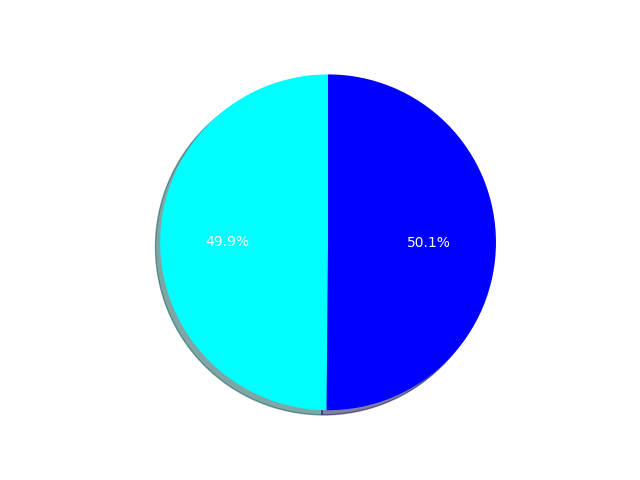
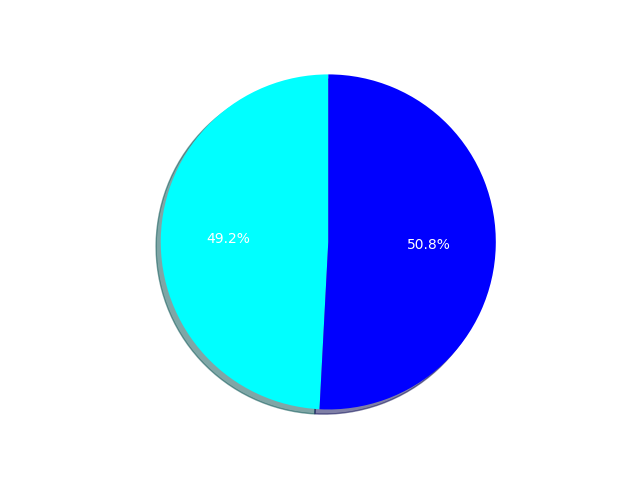
build visual maker into app.py

diff --git a/templates/home.html b/templates/home.html
@@ -20,11 +20,18 @@
 <body>
     <nav>
         <a href="#">Top</a>
-        <a href="#">About</a>
+        <a href="#about">About</a>
+        <a id="new-sec" href="#list-of-winners">Winners:</a>
         <a href="#list-of-winners">List of Winners</a>
-        <a href="#">Winners by Gender</a>
-        <a href="#">Oldest Winners</a>
-        <a href="#">Youngest Winners</a>
+        <a href="#winners-by-gender">Winners by Gender</a>
+        <a href="#">Winners by Age</a>
+        <a href="#">Winners by Region</a>
+        <a id="new-sec" href="#unanimous-winners">Jury:</a>
+        <a href="#">Unanimous Winners</a>
+        <a href="#">Close Votes</a>
+        <a href="#">Votes by Gender</a>
+        <a id="new-sec" href="#list-of-winners">Players:</a>
+        <a href="#">Unanimous Winners</a>
     </nav>
     <section id="about">
         <h2>About</h2>
@@ -39,7 +46,7 @@
     <section id="list-of-winners">
     <h2>List of Survivor Winners</h2>
     <hr>
-    <p>A table of survivor winners in order of season.</p>
+    <p>A table of Survivor winners in order of season.</p>
     <table>
         <thead>
             <tr>
@@ -56,23 +63,20 @@
         <tbody>
             {% for i in range(num_seasons) %}
             <tr>
-                <td>{{ winclass.list_winners(i) }}</td>
-                <td>{{ winclass.winner_age(i) }} </td>
-                <td>{{ winclass.winner_towns(i) }}</td>
+                <td>{{ winclass.ask_winners('Stats', 'name', i) }}</td>
+                <td>{{ winclass.ask_winners('Stats', 'age_time_of_filming', i) }} </td>
+                <td>{{ winclass.ask_winners('Stats', 'hometown', i) }}</td>
                 <td>{{ (i + 1) }}</td>
-                <td>{{ winclass.season_list(i) }}</td>
-                <!-- <td>{{ winclass.tribal_wins(i) }}</td>
-                <td>{{ winclass.in_wins(i) }}</td>
-                <td>{{ winclass.total_wins(i) }}</td> -->
+                <td>{{ winclass.ask_winners('Seasons', 'season', i) }}</td>
             </tr>
             {% endfor %}
         </tbody>
     </table>
 </section>
-<section id="list-of-winners">
+<section id="winners-by-gender">
 <h2>Women Winners</h2>
 <hr>
-<p>A table of all the women survivor winners in order of season.</p>
+<p>A table of all the women Survivor winners in order of season, with basic challenge data.</p>
 <table>
     <thead>
         <tr>
@@ -103,7 +107,7 @@
 </table>
 <h2>Men Winners</h2>
 <hr>
-<p>A table of all the women survivor winners in order of season.</p>
+<p>A table of all the men Survivor winners in order of season, with basic challenge data.</p>
 <table>
     <thead>
         <tr>
@@ -139,7 +143,7 @@
 <p>Non-Binary Players: {{ playerclass.num_nb_players() }}</p>
 </div>
 <div class="pie">
-<img id="play-by-gen-pie" src="{{ url_for('static', filename='gender_pie_players_cropped.png') }}">
+<img src="{{ url_for('static', filename='gender_pie_players_cropped.png') }}">
 </div>
 </article>
 <article>
@@ -149,14 +153,86 @@
 <p>Non-Binary Winners: {{ winclass.num_nb_winners() }}</p>
 </div>
 <div class="pie">
-<img id="win-by-gen-pie" src="{{ url_for('static', filename='gender_pie_winners_cropped.png') }}">
+<img src="{{ url_for('static', filename='gender_pie_winners_cropped.png') }}">
+</div>
+</article>
+</section>
+<section id="winners-by-age">
+<h2>Oldest Winners</h2>
+<hr>
+<p>A table of the oldest the Survivor winners starting from oldest.</p>
+<p>If multiple people were the same age in years, then those tied will then be listed by season.</p>
+<table>
+    <thead>
+        <tr>
+            <th>Name</th>
+            <th>Age (at time of filming)</th>
+            <th>Season #</th>
+            <th>Season Name</th>
+        </tr>
+    </thead>
+    <tbody>
+        {% for i in range(5) %}
+        <tr>
+            <td>{{ winclass.oldest_winners('Stats', 'name', 5, i) }}</td>
+            <td>{{ winclass.oldest_winners('Stats', 'age_time_of_filming', 5, i) }}</td>
+            <td>{{ winclass.oldest_winners('Seasons', 'id', 5, i) }}</td>
+            <td>{{ winclass.oldest_winners('Seasons', 'season', 5, i) }}</td>
+        </tr>
+        {% endfor %}
+    </tbody>
+</table>
+<h2>Youngest Winners</h2>
+<hr>
+<p>A table of the youngest the Survivor winners starting from youngest.</p>
+<p>If multiple people were the same age in years, then those tied will then be listed by season.</p>
+<table>
+    <thead>
+        <tr>
+            <th>Name</th>
+            <th>Age (at time of filming)</th>
+            <th>Season #</th>
+            <th>Season Name</th>
+        </tr>
+    </thead>
+    <tbody>
+        {% for i in range(5) %}
+        <tr>
+            <td>{{ winclass.youngest_winners('Stats', 'name', 5, i) }}</td>
+            <td>{{ winclass.youngest_winners('Stats', 'age_time_of_filming', 5, i) }}</td>
+            <td>{{ winclass.youngest_winners('Seasons', 'id', 5, i) }}</td>
+            <td>{{ winclass.youngest_winners('Seasons', 'season', 5, i) }}</td>
+        </tr>
+        {% endfor %}
+    </tbody>
+</table>
+<article>
+<div class="info" id="play-by-age">
+<p>20-29 Players: {{ playerclass.age_group_players(20, 29) }}</p>
+<p>30-39 Players: {{ playerclass.age_group_players(30, 39) }}</p>
+<p>40-49 Players: {{ playerclass.age_group_players(40, 49) }}</p>
+<p>50+ Players: {{ playerclass.age_group_players(50, 100) }}</p>
+</div>
+<div class="pie">
+<img src="{{ url_for('static', filename='age_pie_players_cropped.png') }}">
+</div>
+</article>
+<article>
+<div class="info" id="win-by-age">
+<p>20-29 Winners: {{ winclass.age_group_winners(20, 29) }}</p>
+<p>30-39 Winners: {{ winclass.age_group_winners(30, 39) }}</p>
+<p>40-49 Winners: {{ winclass.age_group_winners(40, 49) }}</p>
+<p>50+ Winners: {{ winclass.age_group_winners(50, 100) }}</p>
+</div>
+<div class="pie">
+<img src="{{ url_for('static', filename='age_pie_winners_cropped.png') }}">
 </div>
 </article>
 </section>
 <script>
     var $navbar = $('nav');
 $(document).scroll(function() {
-    $navbar.css({display: $(this).scrollTop() > 320? "block":"none"});
+    $navbar.css({display: $(this).scrollTop() > 300? "block":"none"});
 });
 </script>
 </body>

diff --git a/static/style.css b/static/style.css
@@ -14,21 +14,14 @@ html {
 nav {
     display: none;
     position: fixed;
-    height: 100%;
-    /* Full-height: remove this if you want "auto" height */
+    height: 100%; /* Full-height: remove this if you want "auto" height */
     width: 160px;
     z-index: 1;
-    /* Stay on top */
     top: 0;
-    /* Stay at the top */
     left: 0;
-    /* Black */
-    overflow-x: hidden;
-    /* Disable horizontal scroll */
+    overflow-x: hidden; /* Disable horizontal scroll */
     padding-top: 20px;
 }
-
-/* The navigation menu links */
 
 nav a {
     padding: 6px 8px 6px 16px;
@@ -38,10 +31,13 @@ nav a {
     display: block;
 }
 
-/* When you mouse over the navigation links, change their color */
-
 nav a:hover {
     color: #fff;
+}
+
+nav #new-sec{
+  text-decoration: underline;
+  /* font-weight: bold; */
 }
 
 /* On smaller screens, where height is less than 450px, change the style of the sidebar (less padding and a smaller font size) */
@@ -81,6 +77,7 @@ table {
     border-collapse: collapse;
     overflow: hidden;
     box-shadow: 0 0 20px rgba(0, 0, 0, 0.1);
+    margin-bottom: 100px;
 }
 
 th, td {

diff --git a/winners.py b/winners.py
@@ -1,55 +1,6 @@
 from queries import query_db, get_db, DATABASE, num_seasons
 
 class winclass:
-    def list_winners(it):
-        name = query_db('SELECT name FROM Stats WHERE sole_survivor = 1 AND season_id = ?', [(it + 1)], one=True)
-        if name is None:
-            return 'No such user'
-        else:
-            return (name[0])
-
-    def winner_age(it):
-        age = query_db('SELECT age_time_of_filming FROM Stats WHERE sole_survivor = 1 AND season_id = ?', [(it + 1)], one=True)
-        if age is None:
-            return 'No such user'
-        else:
-            return (age[0])
-
-    def winner_towns(it):
-        town = query_db('SELECT hometown FROM Stats WHERE sole_survivor = 1 AND season_id = ?', [(it + 1)], one=True)
-        if town is None:
-            return 'No such user'
-        else:
-            return (town[0])
-
-    def season_list(it):
-        season = query_db('SELECT season FROM Seasons WHERE id = ?', [(it + 1)], one=True)
-        if season is None:
-            return 'No such user'
-        else:
-            return (season[0])
-
-    def tribal_wins(it):
-        t_wins = query_db('SELECT tribal_wins FROM Stats WHERE sole_survivor = 1 AND season_id = ?', [(it + 1)], one=True)
-        if t_wins is None:
-            return 'No such user'
-        else:
-            return (t_wins[0])
-
-    def in_wins(it):
-        i_wins = query_db('SELECT individual_wins FROM Stats WHERE sole_survivor = 1 AND season_id = ?', [(it + 1)], one=True)
-        if i_wins is None:
-            return 'No such user'
-        else:
-            return (i_wins[0])
-
-    def total_wins(it):
-        tot_wins = query_db('SELECT total_wins FROM Stats WHERE sole_survivor = 1 AND season_id = ?', [(it + 1)], one=True)
-        if tot_wins is None:
-            return 'No such user'
-        else:
-            return (tot_wins[0])
-
     def women_seasons():
         women_seasons = query_db("SELECT Stats.season_id FROM Stats JOIN Players JOIN Seasons ON Players.id = Stats.player_id AND Stats.season_id = Seasons.id WHERE Players.gender = 'F' AND Stats.sole_survivor = 1;")
         women_seasons_cleaned = []
@@ -73,6 +24,10 @@ class winclass:
             men_seasons_cleaned.append(nb_seasons[x][0])
         nb_seasons_cleaned.sort()
         return nb_seasons_cleaned
+
+    def ask_winners(table, column, it):
+        winner = query_db(f"SELECT {table}.{column} FROM Stats JOIN Players JOIN Seasons ON Players.id = Stats.player_id AND Stats.season_id = Seasons.id WHERE Stats.sole_survivor = 1 AND season_id = ?;", [it + 1], one=True)
+        return winner[0]
 
     def women_winners(table, column, it):
         woman = query_db(f"SELECT {table}.{column} FROM Stats JOIN Players JOIN Seasons ON Players.id = Stats.player_id AND Stats.season_id = Seasons.id WHERE Players.gender = 'F' AND Stats.sole_survivor = 1 AND season_id = ?;", [it], one=True)
@@ -109,3 +64,15 @@ class winclass:
             men_seasons_cleaned.append(nb_seasons[x][0])
         nb_seasons_cleaned.sort()
         return len(nb_seasons_cleaned)
+
+    def oldest_winners(table, column, num, it):
+        winner = query_db(f"SELECT {table}.{column} FROM Stats JOIN Players JOIN Seasons ON Players.id = Stats.player_id AND Stats.season_id = Seasons.id WHERE Stats.sole_survivor = 1 ORDER BY Stats.age_time_of_filming DESC LIMIT ?;", [num])
+        return winner[it][0]
+
+    def youngest_winners(table, column, num, it):
+        winner = query_db(f"SELECT {table}.{column} FROM Stats JOIN Players JOIN Seasons ON Players.id = Stats.player_id AND Stats.season_id = Seasons.id WHERE Stats.sole_survivor = 1 ORDER BY Stats.age_time_of_filming LIMIT ?;", [num])
+        return winner[it][0]
+
+    def age_group_winners(low, high):
+        age_group = query_db("SELECT Stats.name FROM Stats JOIN Players JOIN Seasons ON Players.id = Stats.player_id AND Stats.season_id = Seasons.id WHERE Stats.sole_survivor = 1 AND Stats.age_time_of_filming >= ? AND Stats.age_time_of_filming <= ? ORDER BY Stats.age_time_of_filming;", [low, high])
+        return len(age_group)

diff --git a/visuals.py b/visuals.py
@@ -2,24 +2,41 @@ import matplotlib.pyplot as plt
 from queries import query_db, get_db, DATABASE, num_seasons
 from PIL import Image
 
-def makecroppedpie2(file_name, label1='label1', label2='label2', value1=0, value2=0, color1='cyan', color2='blue'):
-    plt.rcParams['font.family'] = 'sans-serif'
-    plt.rcParams['text.color'] = 'white'
-    labels = label1, label2
-    sizes = [value1, value2]
-    explode = (0, 0)  # tells which slice to "explode
-    colors_list = [color1, color2]
-    fig1, ax1 = plt.subplots()
-    ax1.pie(sizes, explode=explode, labels=labels, autopct='%1.1f%%',
-            shadow=True, startangle=90, colors = colors_list)
-    ax1.axis('equal')  # Equal aspect ratio ensures that pie is drawn as a circle.
-    # plt.title(title, color = 'white', fontweight = 'bold', fontsize = '20')
-    plt.savefig('static/' + file_name + '.png', transparent=True)
-    imgPath = 'static/' + file_name + '.png'
-    img = Image.open(imgPath)
-    box = (70, 60, 570, 420)
-    croppedImage = img.crop(box)
-    croppedImage.save('static/' + file_name + '_cropped.png')
+class visualmaker:
+    def makecroppedpie2(file_name, label1='Women', label2='Men', value1=0, value2=0, color1='cyan', color2='blue'):
+        plt.rcParams['font.family'] = 'sans-serif'
+        plt.rcParams['text.color'] = 'white'
+        labels = label1, label2
+        sizes = [value1, value2]
+        explode = (0, 0)  # tells which slice to "explode
+        colors_list = [color1, color2]
+        fig1, ax1 = plt.subplots()
+        ax1.pie(sizes, explode=explode, labels=labels, autopct='%1.1f%%',
+                shadow=True, startangle=90, colors = colors_list)
+        ax1.axis('equal')  # Equal aspect ratio ensures that pie is drawn as a circle.
+        # plt.title(title, color = 'white', fontweight = 'bold', fontsize = '20')
+        plt.savefig('static/' + file_name + '.png', transparent=True)
+        imgPath = 'static/' + file_name + '.png'
+        img = Image.open(imgPath)
+        box = (70, 60, 570, 420)
+        croppedImage = img.crop(box)
+        croppedImage.save('static/' + file_name + '_cropped.png')
 
-makecroppedpie2('gender_pie_players', 'Women', 'Men', 354, 356)
-makecroppedpie2('gender_pie_winners', 'Women', 'Men', 15, 25)
+    def makeagepie(file_name, label1='20-29', label2='30-39', label3='40-49', label4='50+', value1=0, value2=0, value3=0, value4=0, color1='cyan', color2='blue', color3='red', color4='orange'):
+        plt.rcParams['font.family'] = 'sans-serif'
+        plt.rcParams['text.color'] = 'white'
+        labels = label1, label2, label3, label4
+        sizes = [value1, value2, value3, value4]
+        explode = (0, 0, 0, 0)  # tells which slice to "explode
+        colors_list = [color1, color2, color3, color4]
+        fig1, ax1 = plt.subplots()
+        ax1.pie(sizes, explode=explode, labels=labels, autopct='%1.1f%%',
+                shadow=True, startangle=90, colors = colors_list)
+        ax1.axis('equal')  # Equal aspect ratio ensures that pie is drawn as a circle.
+        # plt.title(title, color = 'white', fontweight = 'bold', fontsize = '20')
+        plt.savefig('static/' + file_name + '.png', transparent=True)
+        imgPath = 'static/' + file_name + '.png'
+        img = Image.open(imgPath)
+        box = (70, 40, 570, 420)
+        croppedImage = img.crop(box)
+        croppedImage.save('static/' + file_name + '_cropped.png')

diff --git a/app.py b/app.py
@@ -1,6 +1,7 @@
 import sqlite3
 from flask import Flask, render_template, g
 from queries import query_db, get_db, DATABASE, num_seasons
+import visuals
 import winners
 import players
 
@@ -8,6 +9,16 @@ app = Flask(__name__)
 
 if __name__ == '__main__':
     app.run(debug=True)
+
+def makevisuals():
+    with app.app_context():
+        visuals.visualmaker.makecroppedpie2('gender_pie_winners', value1=winners.winclass.num_women_winners(), value2=winners.winclass.num_men_winners())
+        visuals.visualmaker.makecroppedpie2('gender_pie_players', value1=players.playerclass.num_women_players(), value2=players.playerclass.num_men_players())
+        visuals.visualmaker.makeagepie('age_pie_winners', value1=winners.winclass.age_group_winners(20, 29) , value2=winners.winclass.age_group_winners(30, 39) , value3=winners.winclass.age_group_winners(40, 49) , value4=winners.winclass.age_group_winners(50, 100))
+        visuals.visualmaker.makeagepie('age_pie_players', value1=players.playerclass.age_group_players(20, 29) , value2=players.playerclass.age_group_players(30, 39) , value3=players.playerclass.age_group_players(40, 49) , value4=players.playerclass.age_group_players(50, 100))
+    return app
+
+makevisuals()
 
 @app.route("/")
 def home():

diff --git a/players.py b/players.py
@@ -45,3 +45,7 @@ class playerclass:
         for x in range(len(nb_players)):
             men_seasons_cleaned.append(nb_players[x][0])
         return len(nb_players_cleaned)
+
+    def age_group_players(low, high):
+        age_group = query_db("SELECT Stats.name FROM Stats JOIN Players JOIN Seasons ON Players.id = Stats.player_id AND Stats.season_id = Seasons.id WHERE Stats.age_time_of_filming >= ? AND Stats.age_time_of_filming <= ? ORDER BY Stats.age_time_of_filming;", [low, high])
+        return len(age_group)
